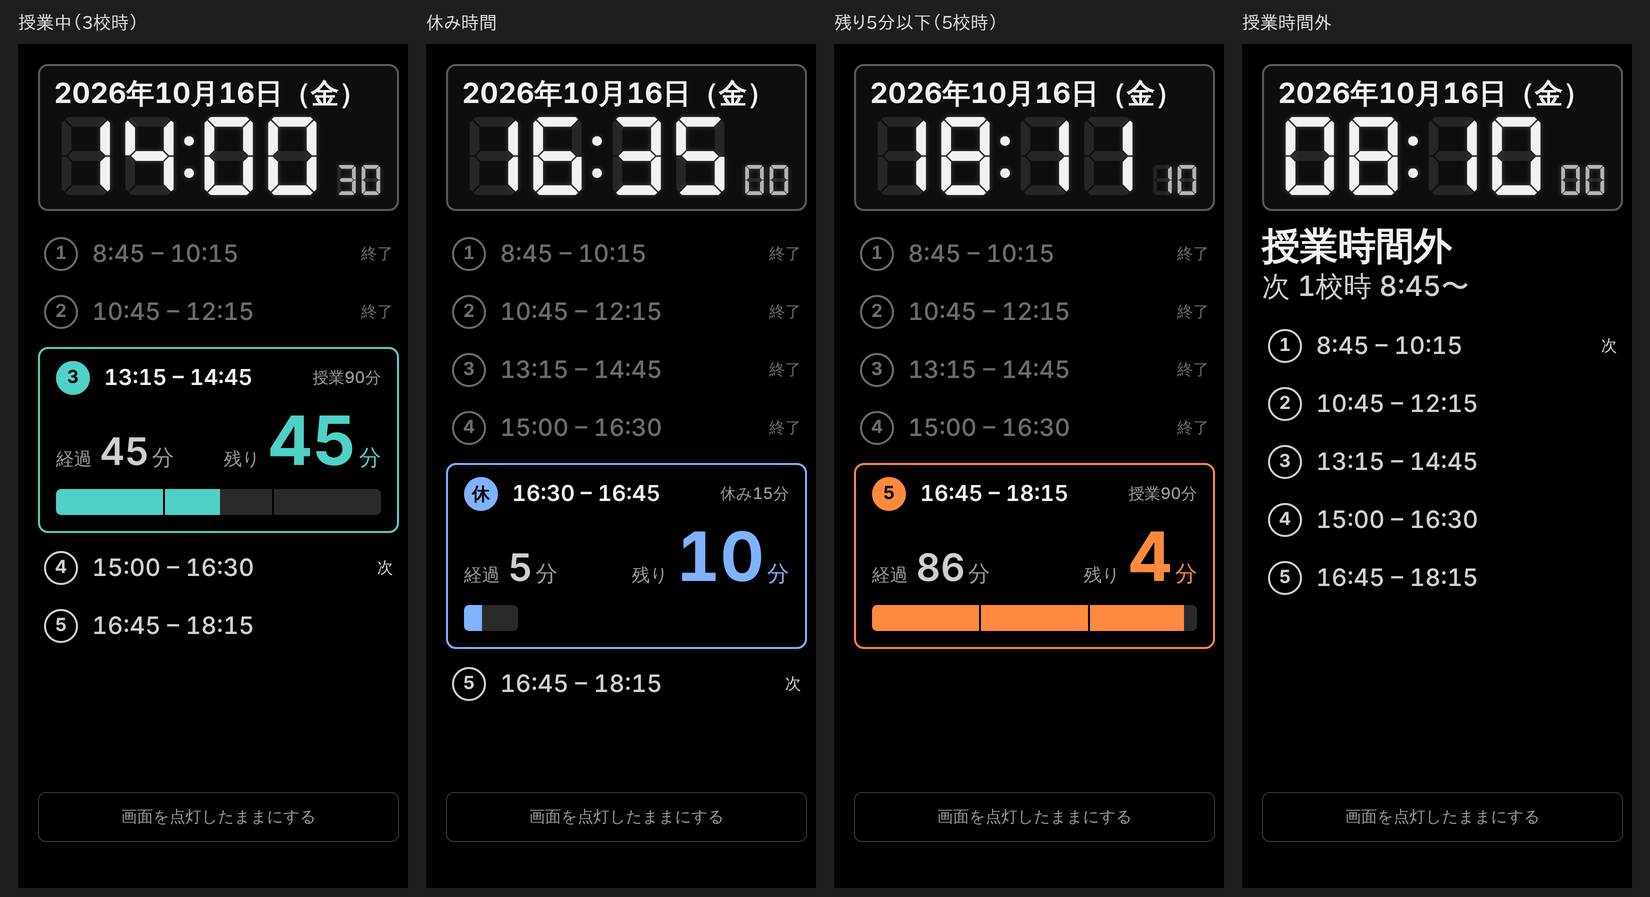
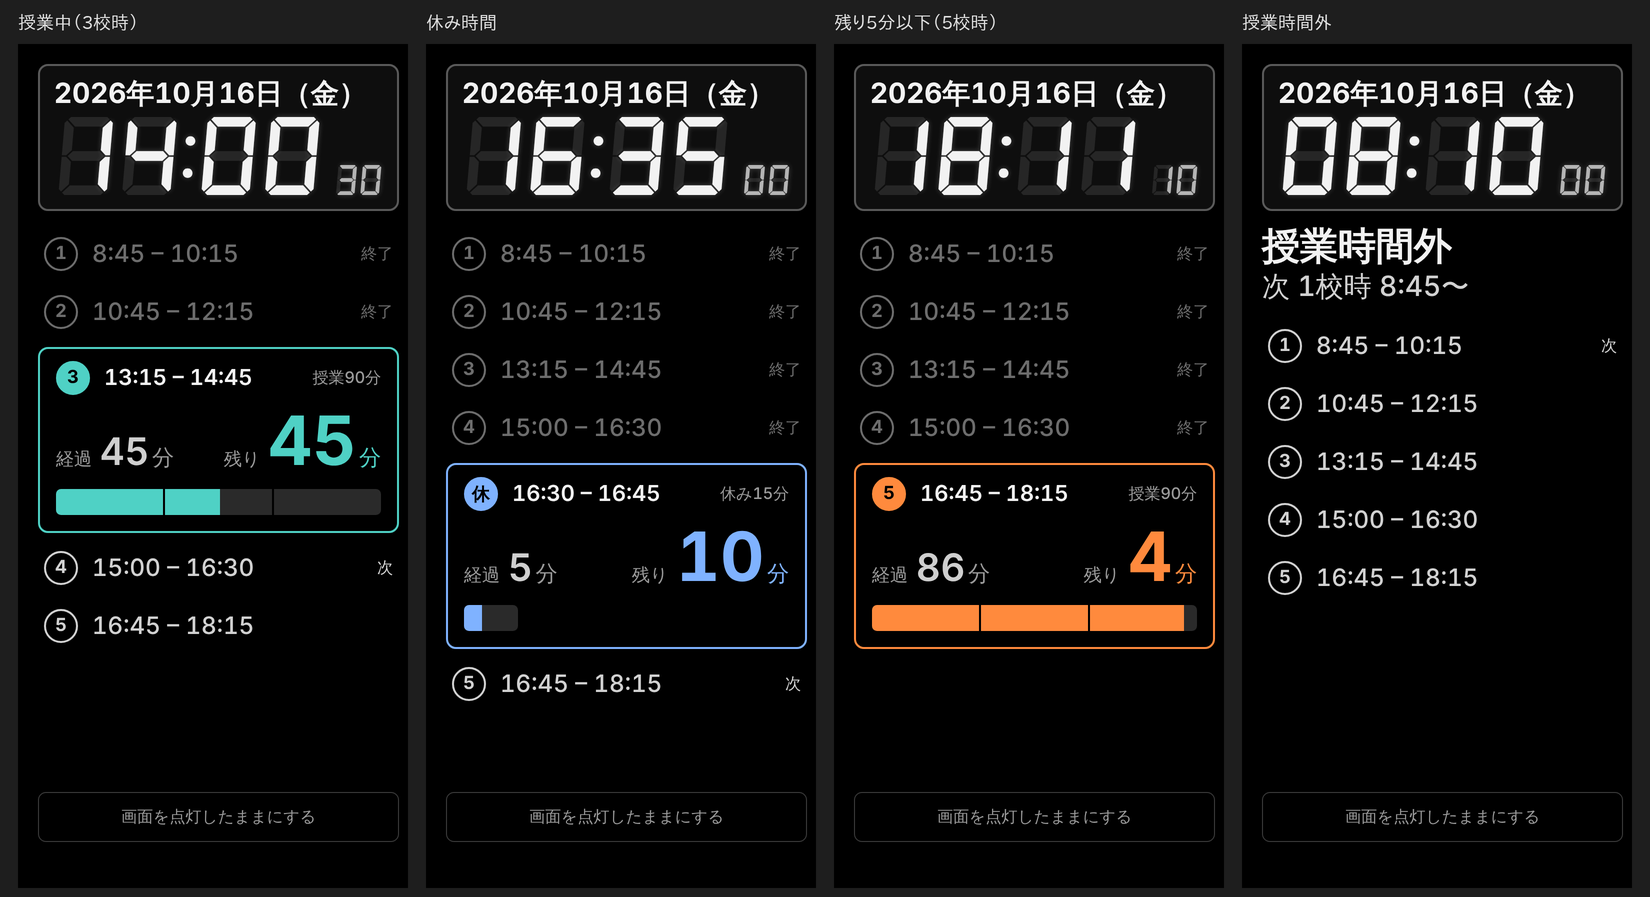
Mobile clock: use DSEG7 Classic Bold Italic
Claude-Session: https://claude.ai/code/session_01WwemvzczgCFbF1NUAzGsBd

diff --git a/css/style.css b/css/style.css
@@ -29,10 +29,10 @@
           "Noto Sans JP", "Yu Gothic", "Segoe UI", Roboto, sans-serif;
 }
 
-/* 7-segment digits for the mobile clock: DSEG7 Classic Bold (SIL OFL, see fonts/DSEG-LICENSE.txt) */
+/* 7-segment digits for the mobile clock: DSEG7 Classic Bold Italic (SIL OFL, see fonts/DSEG-LICENSE.txt) */
 @font-face {
   font-family: "DSEG7";
-  src: url("../fonts/DSEG7Classic-Bold.woff2") format("woff2");
+  src: url("../fonts/DSEG7Classic-BoldItalic.woff2") format("woff2");
   font-weight: 700; font-style: normal; font-display: block;
 }
 
